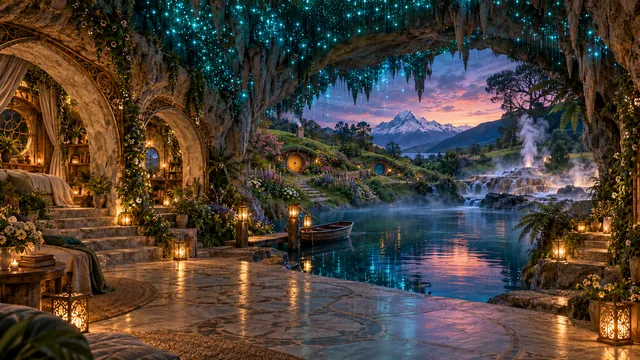
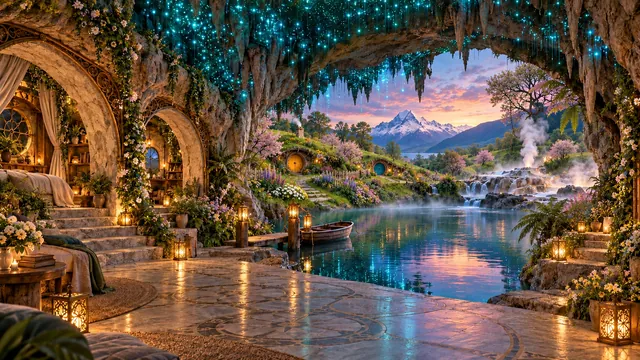
feat(cave): Add seasonal cave scenes and waterfall motion
The caves room now uses seasonal image variants instead of a single static photograph, with matching mask assets and updated map art. LivingPhoto was extended to animate blue-channel waterfall motion while leaving non-moving scenes alone, and the closet portrait assets were added to support the seasonal collection.

diff --git a/src/palais/LivingPhoto.tsx b/src/palais/LivingPhoto.tsx
@@ -17,6 +17,9 @@ import { usePlace, type Place } from "./place";
  *   further along twice, half a cycle apart, and the two are crossfaded, so the
  *   drift never runs out or jumps. A slow warp on top makes them billow.
  * - The water ripples: small wavy offsets and a faint shimmer.
+ * - A waterfall (blue in the mask, painted by hand: Snoqualmie Falls in the
+ *   closet window) pours: the same flow trick, fast and straight down, with
+ *   streaks of foam running through it.
  *
  * It reads each photograph's opacity every frame and mixes them the same way
  * the page does, so it stays in step while the seasons crossfade. It only runs
@@ -70,8 +73,8 @@ void main() {
 
   vec4 m = mask(uv);
   // only move what's clearly sky or water, so edges (towers, mullions, leaves) hold still
-  float sky = smoothstep(0.45, 0.9, m.r), water = smoothstep(0.45, 0.9, m.g);
-  float a = max(sky, water);
+  float sky = smoothstep(0.45, 0.9, m.r), water = smoothstep(0.45, 0.9, m.g), fall = smoothstep(0.2, 0.7, m.b);
+  float a = max(max(sky, water), fall);
   if (a < 0.02) discard;
 
   vec3 col = photo(uv);
@@ -104,6 +107,22 @@ void main() {
     col = mix(col, cw, water);
   }
 
+  if (fall > 0.02) {
+    // the water pouring down: sampled from a little higher, two phases crossfaded
+    float T = 0.9;
+    float p0 = fract(t / T), p1 = fract(t / T + 0.5);
+    float blend = abs(p0 - 0.5) * 2.0;
+    vec2 flow = vec2(0.0, 0.02);
+    vec2 u0 = uv - flow * p0, u1 = uv - flow * p1;
+    vec3 c0 = mask(u0).b > 0.4 ? photo(u0) : col;
+    vec3 c1 = mask(u1).b > 0.4 ? photo(u1) : col;
+    vec3 cf = mix(c0, c1, blend);
+    // foam streaks racing down
+    float streak = noise(vec2(uv.x * 900.0, uv.y * 60.0 - t * 9.0));
+    cf += (streak - 0.45) * 0.22;
+    col = mix(col, cf, fall);
+  }
+
   gl_FragColor = vec4(col * a, a);
 }
 `;
@@ -111,7 +130,7 @@ void main() {
 const maskFor = (src: string) => src.replace(/\/palais\/([^/]+)\.webp$/, "/palais/masks/$1.webp");
 
 /** photographs with nothing to animate (no sky or water in the picture) */
-const STILL = /\/palais\/(closet-[a-z]+|rainwood)\.webp$/;
+const STILL = /\/palais\/rainwood\.webp$/;
 
 function compile(gl: WebGLRenderingContext, type: number, src: string) {
   const sh = gl.createShader(type)!;

diff --git a/src/palais/SeasonRoom.tsx b/src/palais/SeasonRoom.tsx
@@ -30,8 +30,8 @@ const ROOMS: Record<Exclude<Place, "palace">, { file: string; focus: string; sea
   lanterns: { file: "lanterns", focus: "50% 55%", seasons: false },
   // the white loggia over every beach at once, at sunset: one photograph for now
   shore: { file: "shore", focus: "50% 55%", seasons: false, portrait: true },
-  // the glowworm grotto opening onto hobbit hills, a mountain and hot springs: one photograph for now
-  caves: { file: "caves", focus: "50% 55%", seasons: false, portrait: true },
+  // the glowworm grotto opening onto hobbit hills, a mountain and hot springs
+  caves: { file: "caves", focus: "50% 55%", portrait: true },
 };
 
 /**
